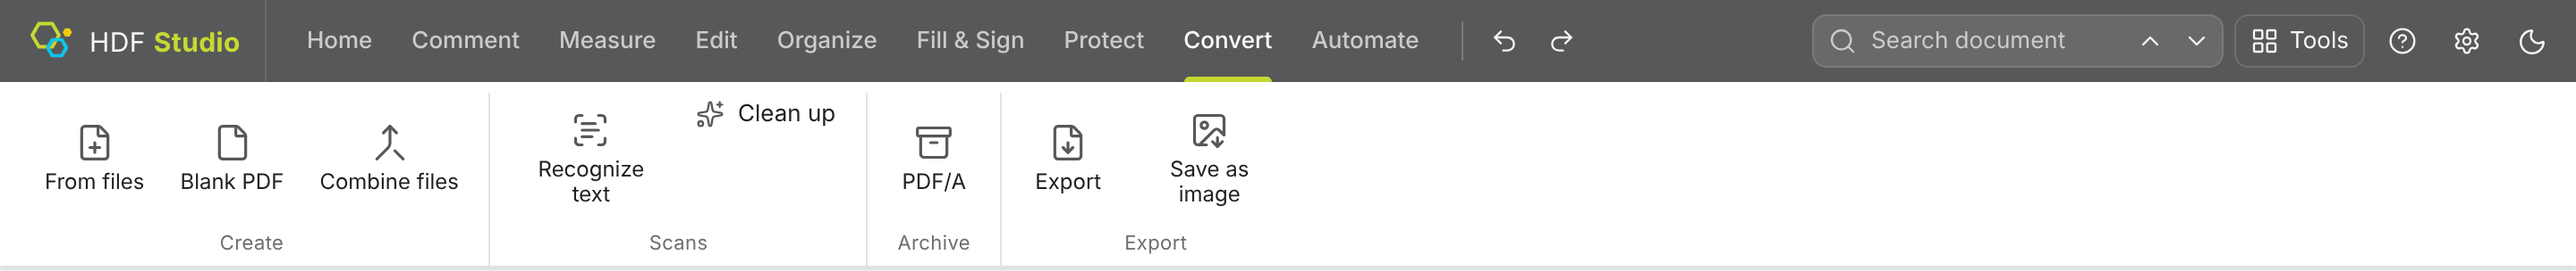
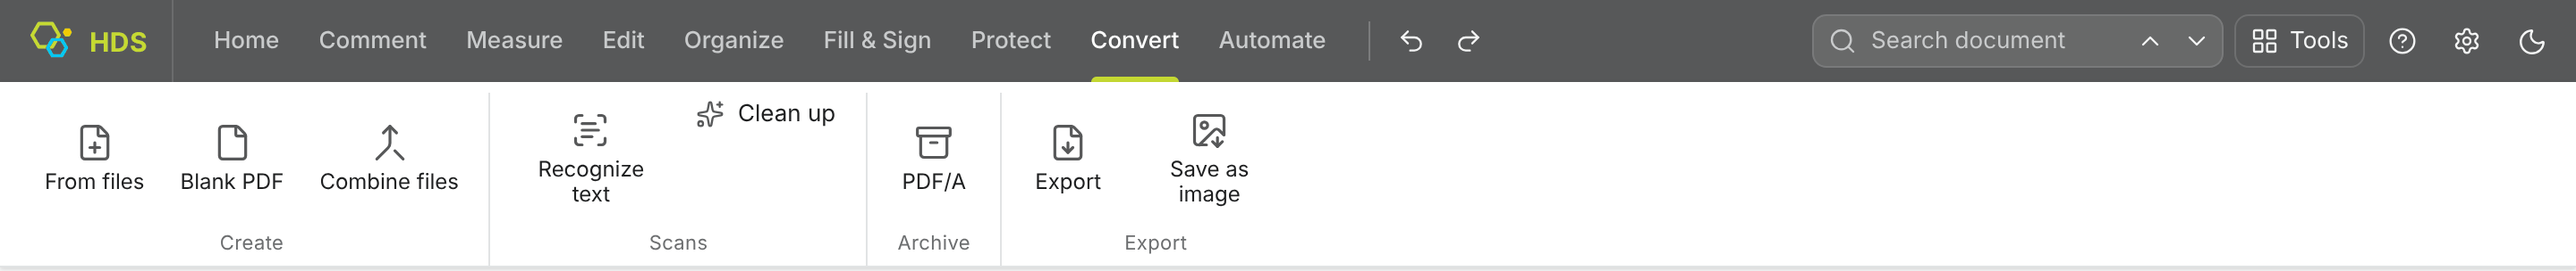
User guide: HDS name, new form builder tools, fresh screenshots
- Recapture every screenshot with the HDS name.
- Form builder chapter covers date and button fields, multi-select,
  align/distribute/size, copies, tab order, the field list and the
  tabbed properties.
- hds command and HDS-Setup.exe / HDS.msi names.

Claude-Session: https://claude.ai/code/session_01KkwfViZhZBwJauY5QCQMHT

Changed region(s): [[0.0312, 0.1184, 0.625, 0.2072], [0.4062, 0.2664, 0.5, 0.3257]]

diff --git a/scripts/help/screenshots.ts b/scripts/help/screenshots.ts
@@ -358,6 +358,11 @@ const SHOTS: Record<string, (p: Page) => Promise<void>> = {
     await open(p, makeFormPdf(), "Site Inspection Form.pdf");
     await run(p, "prepareForm");
     await p.waitForTimeout(800);
+    await run(p, "showThumbs");
+    await run(p, "formFieldList");
+    await p.mouse.click(5, 450); // focus the page without hitting a field
+    await p.keyboard.press("Control+A");
+    await p.waitForTimeout(500);
     await save(p, "form-designer.png");
   },
   async chest(p) {

diff --git a/src/help/topics/form-builder.md b/src/help/topics/form-builder.md
@@ -2,14 +2,16 @@
 title: Building forms
 section: Fill and sign
 order: 4
-keywords: form builder, prepare form, create form, add field, detect fields, fillable, text field, check box, radio button, dropdown, list box, signature field, calculation, formula, sum, format, currency, date, required, validation, tab order
-summary: Turn a flat form into a fillable one, add and arrange fields, and set formats and calculations.
+keywords: form builder, prepare form, create form, add field, detect fields, fillable, text field, date field, calendar, check box, radio button, dropdown, list box, signature field, button, clear form, calculation, formula, sum, format, currency, zip code, phone, email, required, validation, tab order, align, distribute, same size, duplicate, copy fields, field list, appearance, comb
+summary: Turn a flat form into a fillable one, add and arrange fields, set the Tab order, and set formats, calculations and checks.
 ---
 # Building forms
 
-Use **Fill & Sign › Prepare form** ([[Ctrl+Shift+F]]) to add, move and edit form fields. Fields show as outlined boxes while you design.
+Use **Fill & Sign › Prepare form** ([[Ctrl+Shift+F]]) to add, move and edit form fields. Fields show as outlined boxes with their names while you design. The bar above the page has the field types on the left and the Align, Distribute, Size, Copy and Fields groups on the right.
 
-![Designing a form: the field types across the top, fields outlined on the page](form-designer.png "wide")
+![Designing a form: the field types and arrange tools across the top, fields outlined on the page](form-designer.png "wide")
+
+When you're done, click **Prepare form** again (or press [[Esc]] with nothing selected), then save.
 
 ## Make a flat form fillable automatically
 
@@ -17,40 +19,76 @@ Click **Detect fields**. {{app}} looks for blanks, lines and boxes and suggests 
 
 ## Adding fields
 
-Pick a field type, then drag a box on the page (or click for a standard size):
+Pick a field type, then drag a box on the page, or click for a standard size:
 
 | Type | Key | Use for |
 |---|---|---|
-| **Text** | [[T]] | Names, numbers, dates, notes |
+| **Text** | [[T]] | Names, numbers, notes |
+| **Date** | [[A]] | Dates. People filling in the form get a calendar. |
 | **Check box** | [[C]] | Yes or no |
-| **Radio** | [[R]] | One choice from a group. Buttons placed one after another form a group. |
+| **Radio** | [[R]] | One choice from a group. Buttons placed one after another form a group; pick Radio again to start a new group. |
 | **Dropdown** | [[D]] | One choice from a list |
 | **List** | [[L]] | One or more choices from a visible list |
 | **Signature** | [[S]] | Where someone signs |
+| **Button** | [[B]] | Clears the form, prints it or opens a web link when clicked |
 
-Dropdowns and lists ask for their choices, separated by commas.
+Dropdowns and lists ask for their choices, separated by commas. Buttons ask for their label and what they do. The **Date field** button on the ribbon and the Ctrl+K palette ("Add a … field") also start each type.
 
-## Arranging fields
+## Selecting and moving fields
 
-- Drag a field to move it; drag its corner to resize it.
-- Arrow keys nudge the selected field.
-- [[Delete]] removes it.
-- Double-click a field for its properties.
+- Click a field to select it. [[Shift]]+click or [[Ctrl]]+click adds or removes fields, or drag a box around several.
+- [[Ctrl+A]] selects every field on the page in view.
+- Drag to move the selected fields together; drag a corner to resize one.
+- Arrow keys nudge the selection by one point, or ten with [[Shift]].
+- [[Delete]] removes the selection. [[Ctrl+Z]] undoes.
+
+## Lining fields up
+
+Select two or more fields. The **last one you picked** is the anchor that the others line up with or match.
+
+| Group | Buttons |
+|---|---|
+| **Align** | Left edges, centres across, right edges, top edges, middles down, bottom edges |
+| **Distribute** | Space evenly across or down (three or more fields) |
+| **Size** | Same width, same height, or both as the anchor. Check boxes and radio buttons stay square. |
+
+## Copying fields
+
+- **Duplicate** ([[Ctrl+D]]) puts a copy just below. [[Ctrl+C]], [[Ctrl+X]] and [[Ctrl+V]] copy, cut and paste, also onto another page.
+- **Make copies in rows and columns** builds a table of fields, such as the lines of an order form. Set how many copies down and across and the spacing. Names count on, so *Qty 1* is followed by *Qty 2*, *Qty 3* and so on.
+- **Copy to other pages** puts the fields in the same place on the pages you choose, such as `all`, `2-5`, `odd` or `even`.
+
+Copies keep every property of the original, including formats, calculations and default values. A copy of a radio button joins the same group as a new choice.
+
+## Tab order
+
+The Tab key moves through fields in their Tab order. Click **Tab order** (in the bar, or **Fill & Sign › Tab order**) to see a numbered badge on every field, then:
+
+- click the fields in the order you want; radio buttons in one group move together, or
+- click **By rows** (left to right, then down) or **By columns** (top to bottom, then across) to order every page at once.
+
+Click **Finish** or press [[Esc]] when done.
+
+## The field list
+
+**Field list** shows every field in the document, page by page, with its Tab position and type. Click a field in the list to select it and scroll to it.
 
 ## Field properties
 
-| Property | What it does |
+Double-click a field, or select it and press [[Enter]], for its properties. With several fields selected, the changes you make apply to all of them, so you can, for example, make a whole column required or change its font in one go.
+
+| Tab | What you can set |
 |---|---|
-| **Name** | Identifies the field; used when filling from a spreadsheet and exporting data. Radio buttons share a group name. |
-| **Tooltip** | Shown when someone hovers over the field. |
-| **Required** / **Read only** | Must be filled in / can't be changed. |
-| **Font size** | 0 fits the text to the box. |
-| **Multiple lines**, **Character limit** | For text fields. |
-| **Format** | Plain text, number, currency, percent or date, with decimal places, currency symbol and number style. |
+| **General** | **Name** (used when filling from a spreadsheet and exporting data; radio buttons share a group name), **Tooltip**, **Required** and **Read only** |
+| **Appearance** | Border colour and width, fill colour, font, font size (*Auto* fits the box), text alignment and text colour. Check boxes and radio buttons also have the check colour and check style: check, cross, circle, square, diamond or star. |
+| **Options** | Default value, **Multiple lines**, **Character limit** and **Comb** (one character per box, for codes and account numbers) for text fields. Choices (one per line) for dropdowns and lists, **Allow typing other text** for dropdowns and **Allow more than one choice** for lists. The value a check box or radio button sends when picked. A button's label. |
+| **Format** | Plain text, number, currency, percent or date, with decimal places, currency symbol, number style and negatives in brackets. Also ZIP code, ZIP+4, phone number and Social Security number. |
 | **Calculate** | Sum, product, average, minimum or maximum of other fields, or a formula such as `Qty * Price`. |
-| **Lowest / highest allowed value** | Rejects numbers outside the range. |
-| **Choices** | For dropdowns and lists. |
+| **Validate** | A number in a range, or an email address. |
+| **Action** | For buttons: clear the form, print, open a web link or do nothing. |
 
 Calculated fields update as people fill in the form, in {{app}} and in other PDF readers.
 
-Click **Prepare form** again when you're done, then save.
+In a formula, put `\` before a space or a dot in a field name, for example `Qty\ 1 * Price\ 1`.
+
+> **Note:** A copied calculation still uses the same fields as the original. After making copies of a *Total 1* field, open each copy's **Calculate** tab and change the field names (for example to `Qty\ 2 * Price\ 2`).

diff --git a/src/help/topics/watch-folders.md b/src/help/topics/watch-folders.md
@@ -2,7 +2,7 @@
 title: Watch folders and the command line
 section: Automate
 order: 2
-keywords: watch folder, hot folder, automatic, scanner folder, shared drive, command line, CLI, hdfstudio, script, scheduled task, server
+keywords: watch folder, hot folder, automatic, scanner folder, shared drive, command line, CLI, hds, hdfstudio, script, scheduled task, server
 summary: Process every PDF dropped into a folder automatically, or script {{app}} from the command line.
 ---
 # Watch folders and the command line
@@ -19,16 +19,16 @@ Results go to a `hdfstudio-out` folder inside the watched folder, and the origin
 
 ## The command line
 
-For IT and scripting, the same engine runs without the window as the `hdfstudio` command-line tool. It comes with the {{app}} source code and needs Node.js. Some useful commands:
+For IT and scripting, the same engine runs without the window as the `hds` command-line tool. It comes with the {{app}} source code and needs Node.js. Some useful commands:
 
 | Command | Does |
 |---|---|
-| `hdfstudio run "<recipe>" <files or folders>` | Runs a recipe on every PDF |
-| `hdfstudio watch <folder> --recipe <name>` | A watch folder that keeps running without the app |
-| `hdfstudio ocr <files or folders>` | Makes scanned PDFs searchable |
-| `hdfstudio compare old.pdf new.pdf -o report.pdf` | Lists what changed and writes a marked-up report |
-| `hdfstudio export <files> --to png --dpi 300` | PDFs to images, Word, HTML, text or SVG |
-| `hdfstudio check <files>` | PDF/A, accessibility and security check |
-| `hdfstudio merge`, `split`, `extract`, `sign`, `verify` | Page and signature jobs |
+| `hds run "<recipe>" <files or folders>` | Runs a recipe on every PDF |
+| `hds watch <folder> --recipe <name>` | A watch folder that keeps running without the app |
+| `hds ocr <files or folders>` | Makes scanned PDFs searchable |
+| `hds compare old.pdf new.pdf -o report.pdf` | Lists what changed and writes a marked-up report |
+| `hds export <files> --to png --dpi 300` | PDFs to images, Word, HTML, text or SVG |
+| `hds check <files>` | PDF/A, accessibility and security check |
+| `hds merge`, `split`, `extract`, `sign`, `verify` | Page and signature jobs |
 
-Run `hdfstudio` on its own to list every command and option, and `hdfstudio recipes` to list the recipes and step types.
+Run `hds` on its own to list every command and option, and `hds recipes` to list the recipes and step types.

diff --git a/src/help/topics/signin.md b/src/help/topics/signin.md
@@ -36,6 +36,6 @@ If you skip an update, use **Check for updates** when you're ready.
 
 ## Installing on a new computer
 
-Download **HDF-Studio-Setup.exe** from the release page and run it. It installs for your Windows account, so it doesn't need administrator rights. IT can deploy the **.msi** instead.
+Download **HDS-Setup.exe** from the release page and run it. It installs for your Windows account, so it doesn't need administrator rights. IT can deploy **HDS.msi** instead.
 
 > **Note:** The installer isn't code-signed yet. If Windows shows *Windows protected your PC*, click **More info**, then **Run anyway**.

diff --git a/src/help/topics/forms.md b/src/help/topics/forms.md
@@ -9,7 +9,7 @@ summary: Fill in PDF forms, fill many copies from a spreadsheet, and export the 
 
 When a PDF has form fields, {{app}} says so in the status bar. Click a field and type, or tick check boxes and choose from lists. [[Tab]] moves to the next field.
 
-Fields with calculations (totals, sums) update as you type.
+Fields with calculations (totals, sums) update as you type. Date fields open a calendar, and buttons on the form clear it, print it or open a link.
 
 ## Fill from a spreadsheet
 
